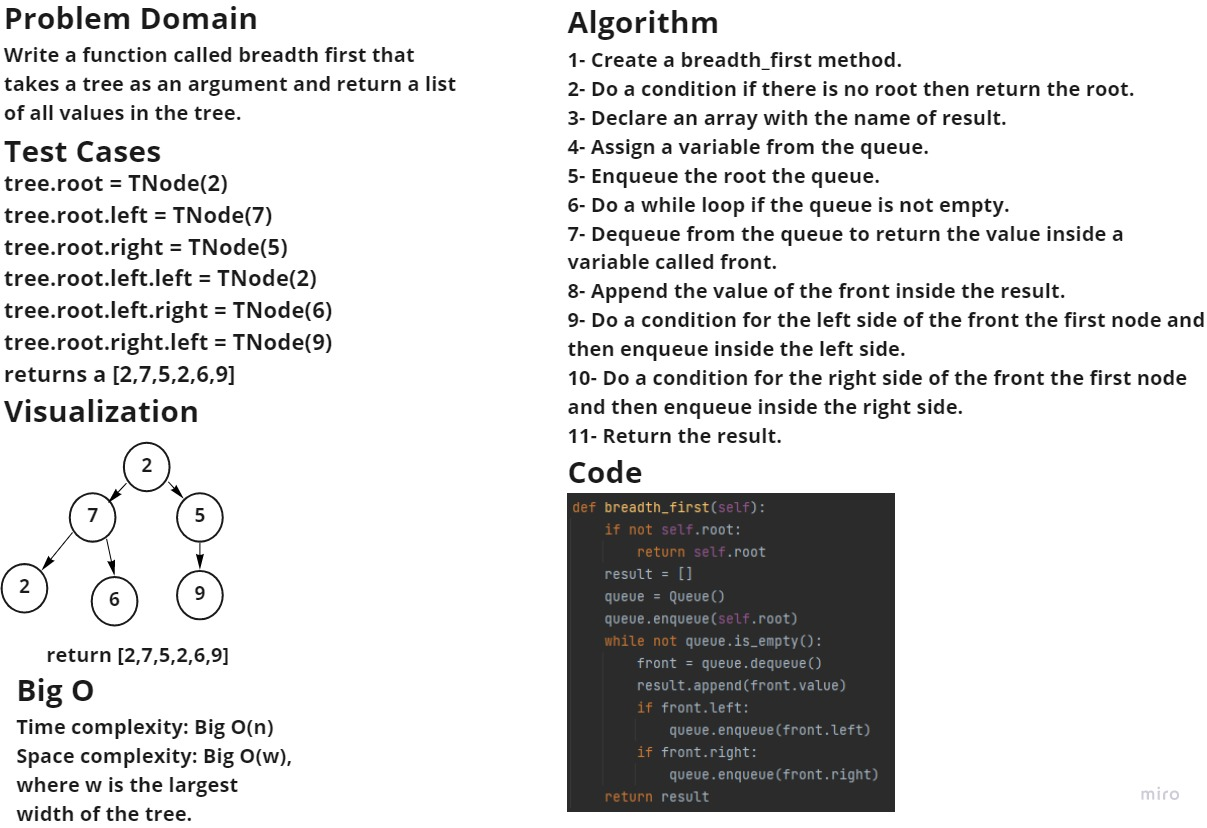
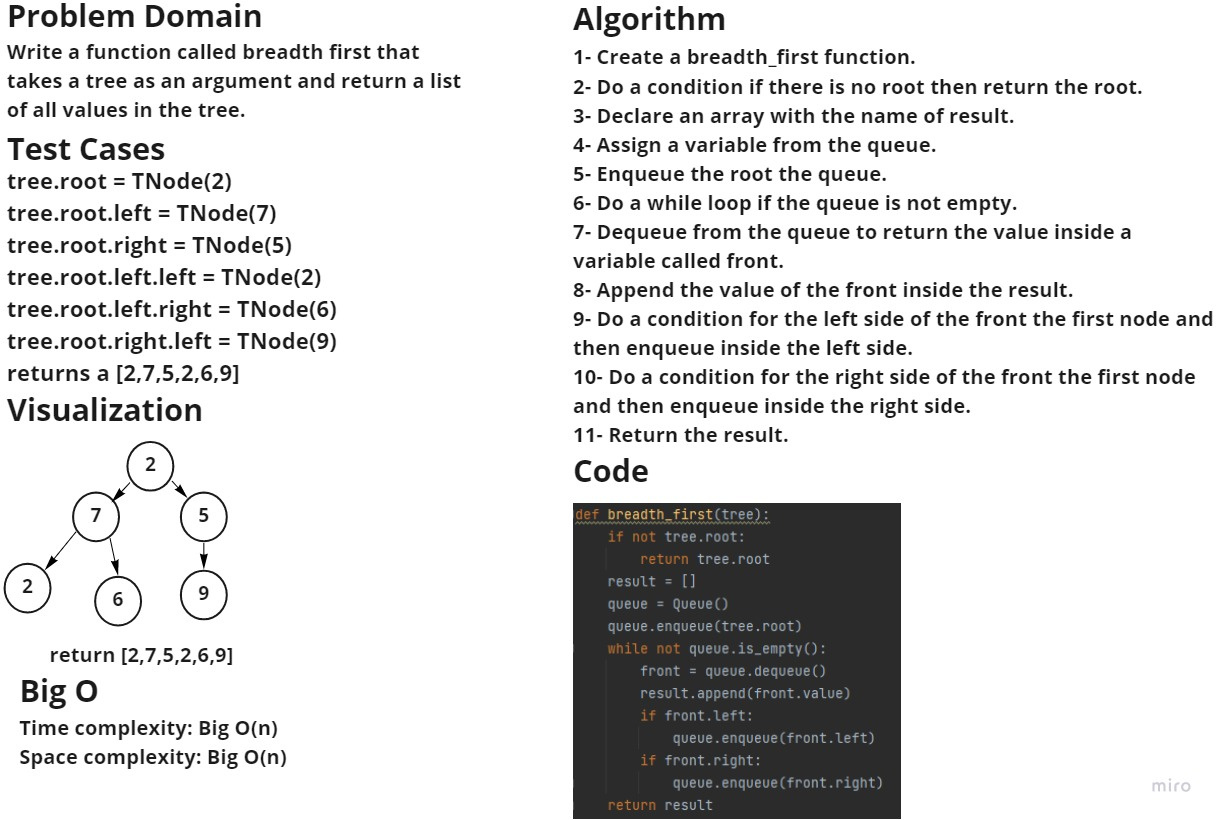
updated

Changed region(s): [[0.4598, 0.0, 1.0, 1.0], [0.0, 0.0, 0.3985, 1.0]]

diff --git a/breadth_first/breadth_first.py b/breadth_first/breadth_first.py
@@ -41,20 +41,20 @@ class Tree:
     def __init__(self):
         self.root = None
 
-    def breadth_first(self):
-        if not self.root:
-            return self.root
-        result = []
-        queue = Queue()
-        queue.enqueue(self.root)
-        while not queue.is_empty():
-            front = queue.dequeue()
-            result.append(front.value)
-            if front.left:
-                queue.enqueue(front.left)
-            if front.right:
-                queue.enqueue(front.right)
-        return result
+def breadth_first(tree):
+    if not tree.root:
+        return tree.root
+    result = []
+    queue = Queue()
+    queue.enqueue(tree.root)
+    while not queue.is_empty():
+        front = queue.dequeue()
+        result.append(front.value)
+        if front.left:
+            queue.enqueue(front.left)
+        if front.right:
+            queue.enqueue(front.right)
+    return result
 
 if __name__ == "__main__":
   tree = Tree()
@@ -64,4 +64,4 @@ if __name__ == "__main__":
   tree.root.left.left = TNode(2)
   tree.root.left.right = TNode(6)
   tree.root.right.left = TNode(9)
-  print(tree.breadth_first())
+  print(breadth_first(tree))

diff --git a/tests/test_breadth_first.py b/tests/test_breadth_first.py
@@ -1,5 +1,5 @@
 import pytest
-from breadth_first.breadth_first import Node, TNode,Tree
+from breadth_first.breadth_first import TNode, Tree, breadth_first
 
 tree = Tree()
 tree.root = TNode(2)
@@ -10,7 +10,7 @@ tree.root.left.right = TNode(6)
 tree.root.right.left = TNode(9)
 
 def test_breadth_first_case_1():
-    actual = Tree.breadth_first(tree)
+    actual = breadth_first(tree)
     expected = [2, 7, 5, 2, 6, 9]
     assert actual == expected
 
@@ -23,6 +23,6 @@ tree1.root.left.right = TNode(5)
 tree1.root.right.left = TNode(6)
 
 def test_breadth_first_case_2():
-    actual = Tree.breadth_first(tree1)
+    actual = breadth_first(tree1)
     expected = [1, 2, 3, 4, 5, 6]
     assert actual == expected

diff --git a/breadth_first/README.md b/breadth_first/README.md
@@ -6,9 +6,9 @@ Write a function called breadth first that takes a tree as an argument and retur
 
 ## Approach & Efficiency
 Time complexity: Big O(n)
-Space complexity: Big O(w), where w is the largest width of the tree
+Space complexity: Big O(n)
 
 ### Solution
-![breadth1](breadth.png)
+![breadth1](brrr.png)
 
 
